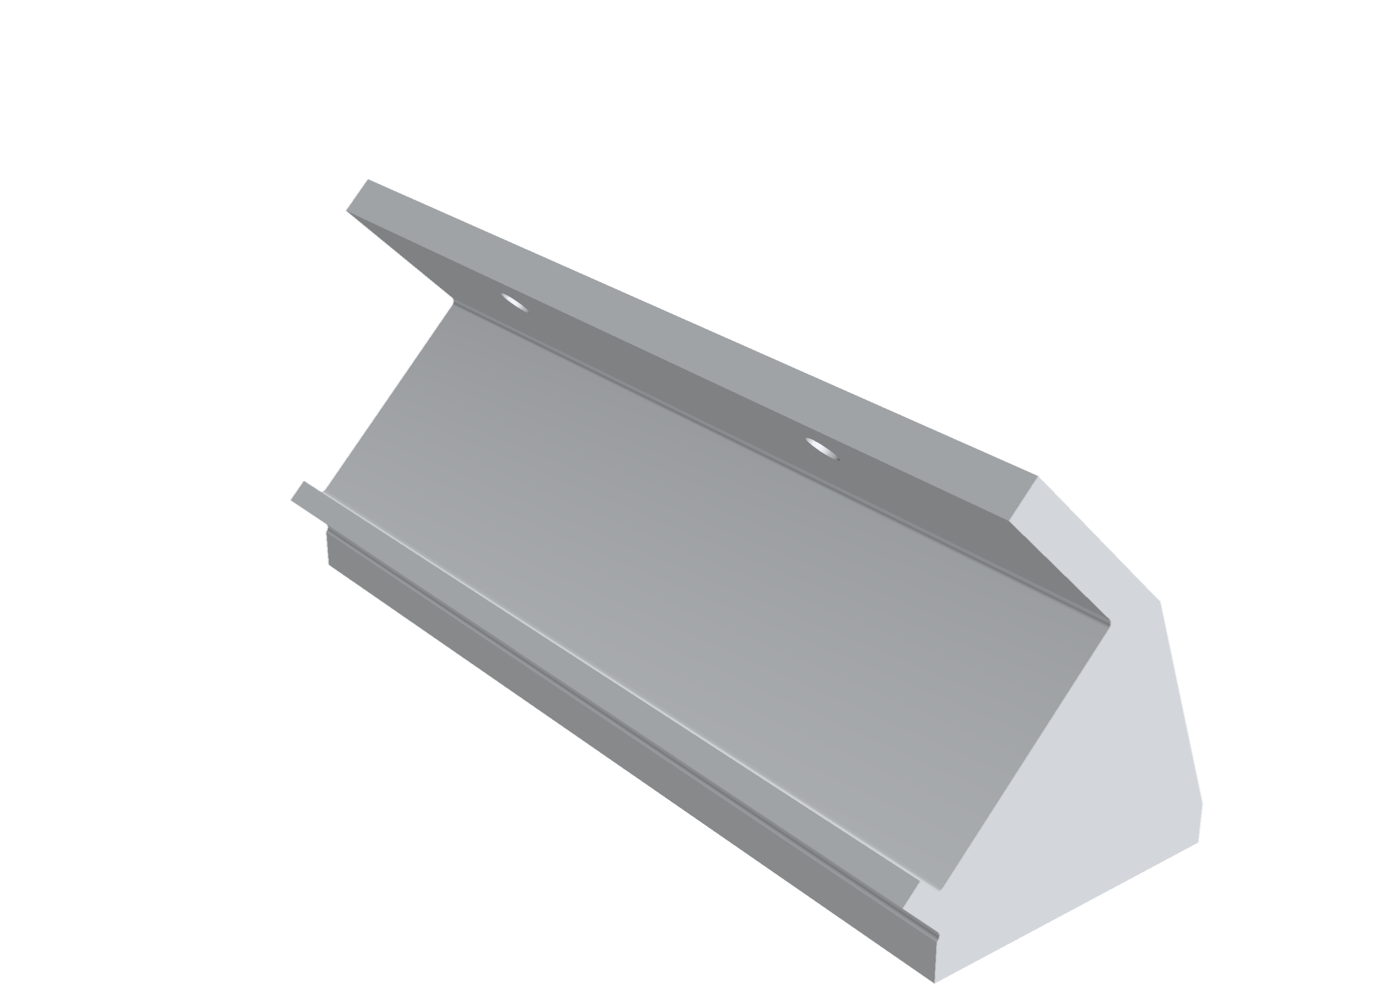
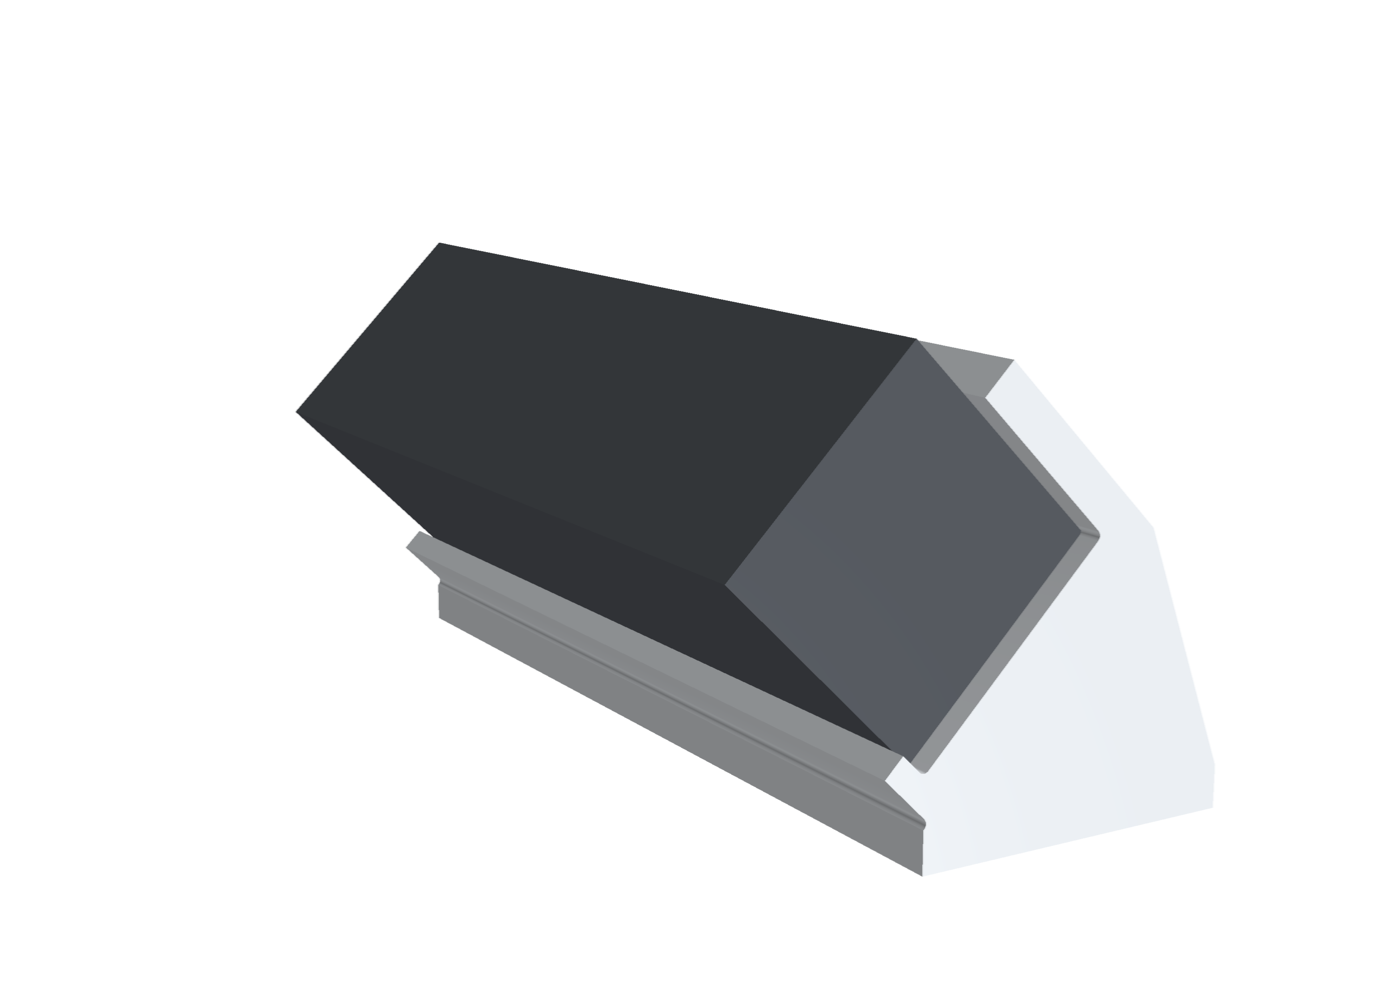
Chest camera renders: D435 tilted nose-down along its seat (was flipped), side view of the 45 deg tilt

Changed region(s): [[0.215, 0.186, 0.86, 0.992]]

diff --git a/cad/openarm_chest_camera.py b/cad/openarm_chest_camera.py
@@ -129,7 +129,7 @@ def camera_box():
     (xo, zo), f, n = _cam_frame()
     t = TILT
     c = (xo + (D435[1] / 2 + FIT / 2) * f[0] + D435[2] / 2 * n[0], zo + (D435[1] / 2 + FIT / 2) * f[1] + D435[2] / 2 * n[1])
-    return Pos(c[0], 0, c[1]) * Rot(0, t, 0) * Box(D435[1], D435[0], D435[2])
+    return Pos(c[0], 0, c[1]) * Rot(0, -t, 0) * Box(D435[1], D435[0], D435[2])
 
 
 def core(z0=-120.0, z1=120.0):
@@ -160,8 +160,9 @@ def render(h, mount):
         p.close()
         print("wrote", path.name)
     plot(IMG / "chest_camera.png", items, (-1.0, -0.8, 0.35))
-    plot(IMG / "chest_camera_back.png", items[:2] + items[2:3], (1.0, -0.6, -0.25))
-    plot(IMG / "d435_mount.png", [(H._mesh(mount, 0.03), "#e9edf1")], (-0.8, -1.0, 0.6), size=(1400, 1000), zoom=1.2)
+    plot(IMG / "chest_camera_side.png", items, (0.0, -1.0, 0.0), size=(1100, 1500))       # the 45 deg tilt, side on
+    plot(IMG / "d435_mount.png", [(H._mesh(mount, 0.03), "#e9edf1"), (H._mesh(camera_box(), 0.1), "#55595f")],
+         (-0.6, -1.0, 0.25), size=(1400, 1000), zoom=1.2)
 
 
 def main():

diff --git a/README.md b/README.md
@@ -260,7 +260,7 @@ the root. One broad side is flat, and the other is opened into ribbed cells.
 
 ## Chest camera: a D435 mast on OpenArm's core
 
-<p align="center"><img src="docs/img/chest_camera.png" alt="The chest camera mast bolted to OpenArm's 60 x 60 core, with a D435 on its arm, looking 45° down" width="420"></p>
+<p align="center"><img src="docs/img/chest_camera.png" alt="The chest camera mast bolted to OpenArm's 60 x 60 core, with a D435 on its arm" width="360"> <img src="docs/img/chest_camera_side.png" alt="Side view: the D435 on top of the mast, looking forward and 45° down, away from the core" width="300"></p>
 
 `hardware/chest_camera/` raises the chest camera on a mast for a wider view. It's two printed parts.
 
